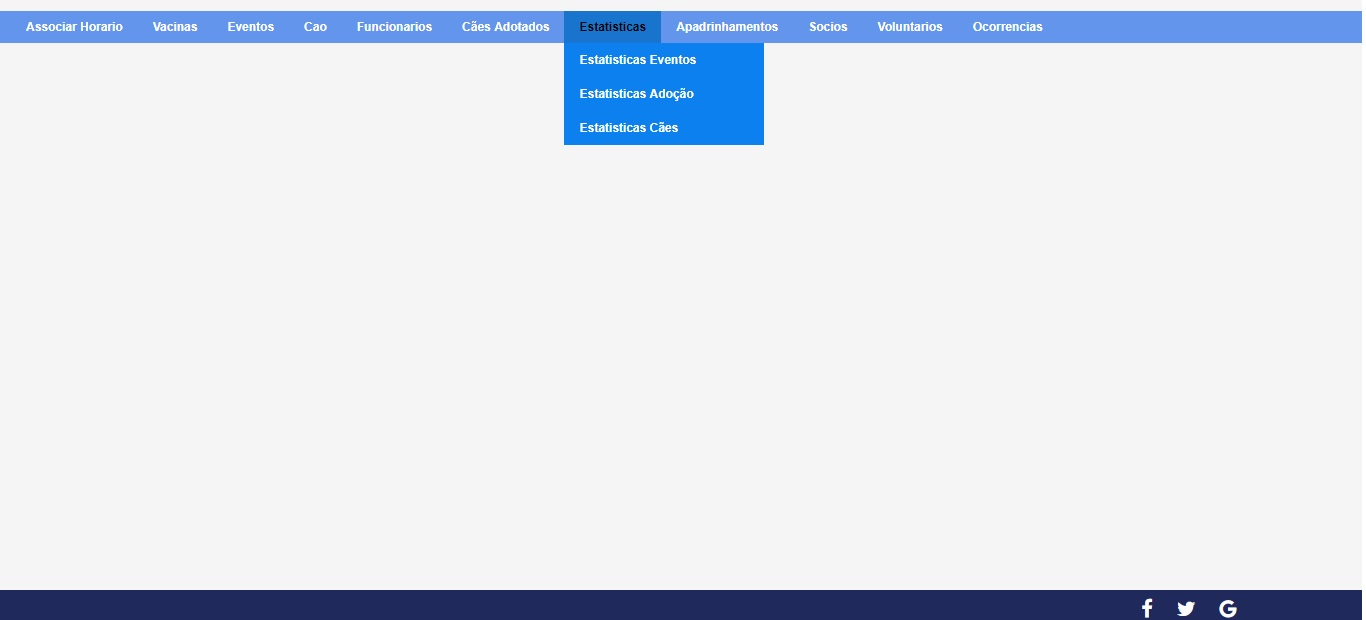
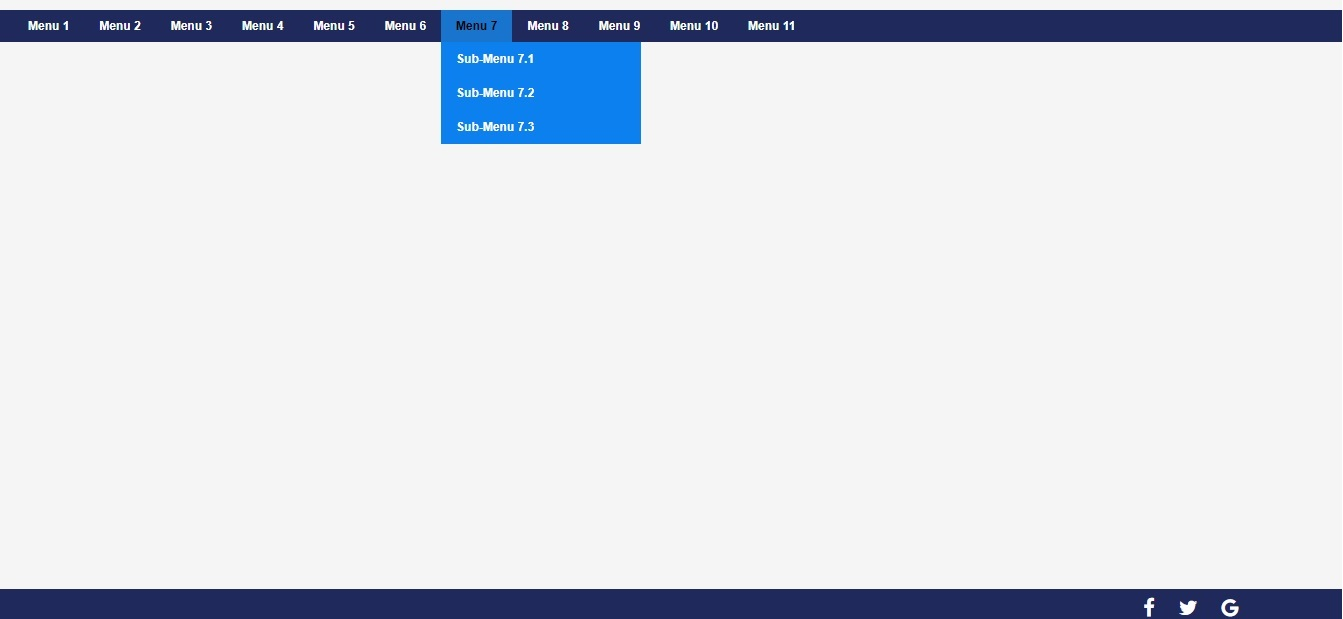
update project

Changed region(s): [[0.0, 0.0, 1.0, 0.2456], [0.8243, 0.9515, 0.9464, 1.0]]

diff --git a/www/index.html b/www/index.html
@@ -83,27 +83,27 @@
 </head>
 <body>
         <nav id="primary_nav_wrap" class="navbar">
-                <div class="container-fluid">
+                <div class="w3-theme-dark container-fluid" >
                     <ul class="navbar-nav">
     
-                                <li><a>Associar Horario</a></li>
-                                <li><a>Vacinas</a></li>
-                                <li><a>Eventos</a></li>
-                                <li><a>Cao</a></li>
-                                <li><a>Funcionarios</a></li>
-                                <li><a>Cães Adotados</a></li>
+                                <li><a>Menu 1</a></li>
+                                <li><a>Menu 2</a></li>
+                                <li><a>Menu 3</a></li>
+                                <li><a>Menu 4</a></li>
+                                <li><a>Menu 5</a></li>
+                                <li><a>Menu 6</a></li>
                                 <li>
-                                    <a>Estatisticas</a>
+                                    <a>Menu 7</a>
                                     <ul>
-                                        <li><a>Estatisticas Eventos</a></li>
-                                        <li><a>Estatisticas Adoção</a></li>
-                                        <li><a>Estatisticas Cães</a></li>
+                                        <li><a>Sub-Menu 7.1</a></li>
+                                        <li><a>Sub-Menu 7.2</a></li>
+                                        <li><a>Sub-Menu 7.3</a></li>
                                     </ul>
                                 </li>
-                                <li><a>Apadrinhamentos</a></li>
-                                <li><a>Socios</a></li>
-                                <li><a>Voluntarios</a></li>
-                                <li><a>Ocorrencias</a></li>
+                                <li><a>Menu 8</a></li>
+                                <li><a>Menu 9</a></li>
+                                <li><a>Menu 10</a></li>
+                                <li><a>Menu 11</a></li>
                       
                         
                     </ul>

diff --git a/www/styles/styles.css b/www/styles/styles.css
@@ -59,7 +59,8 @@ body {
 }
 
     .navbar .container-fluid {
-        background-color: cornflowerblue; /*mudei*/
+         color:#fff !important;
+         background-color:#20295b !important
     }
 
 .navbar-nav li a {
@@ -70,6 +71,7 @@ body {
         color: black !important;
     }
 
+   
 #conteudo {
     margin: 0 13px;
     margin-top: -15px;
